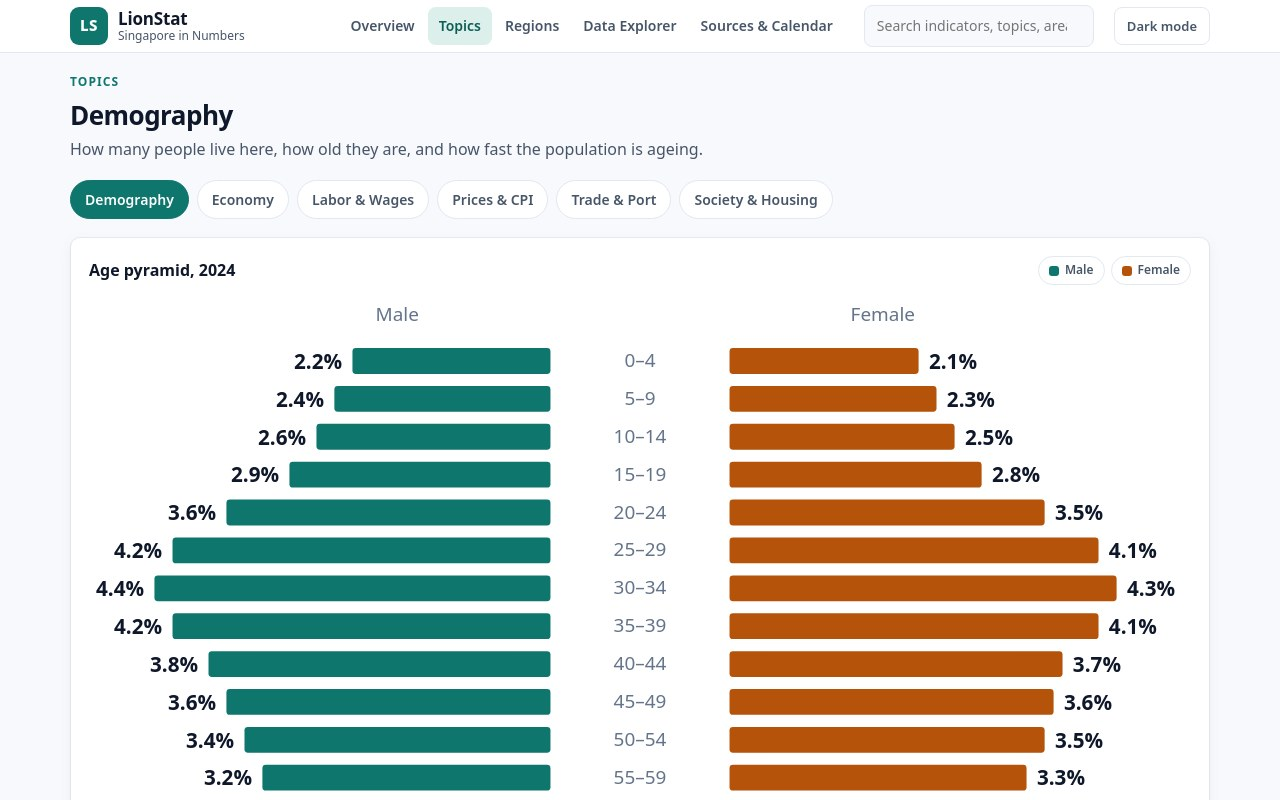
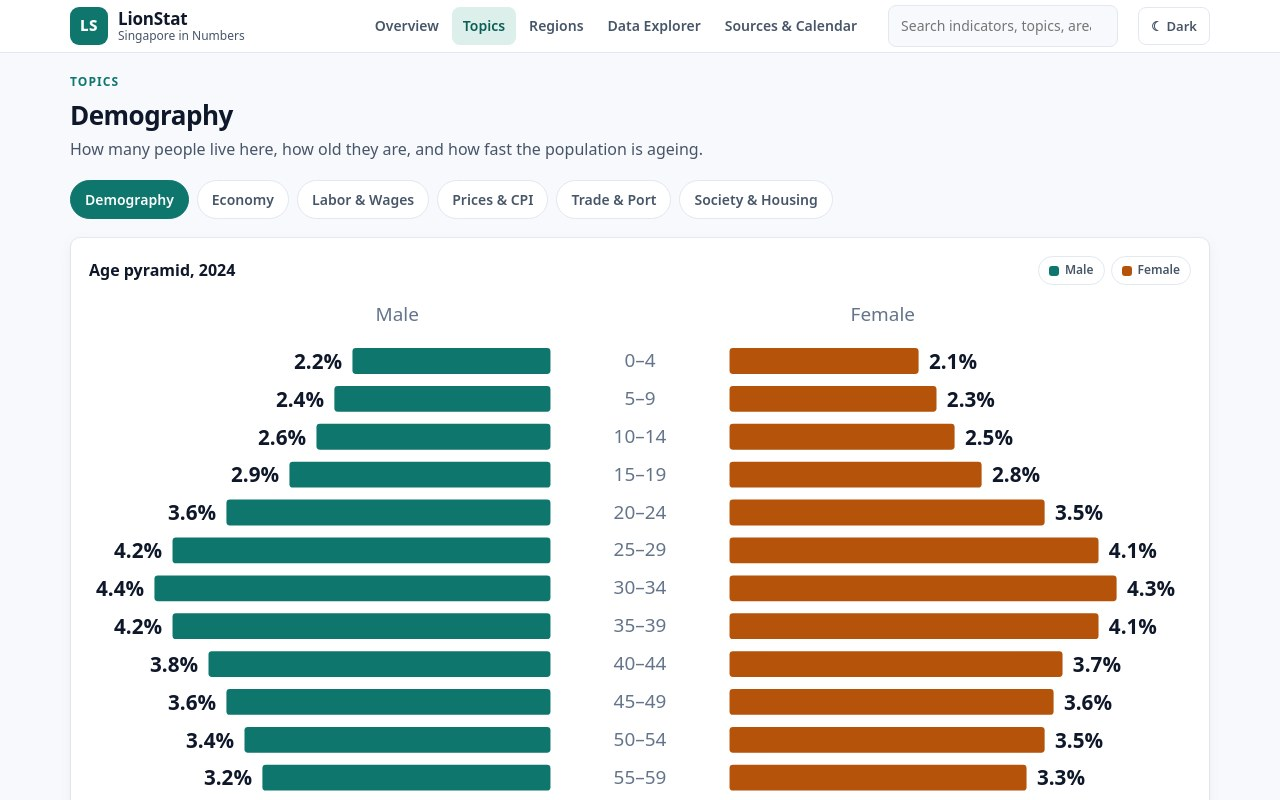
LionStat V3 — export buttons, compact mobile header, tighter choropleth
- Download CSV + Copy citation buttons on the Regions detail card
  (per-area CSV and citation) and beside the Data Explorer link under
  Featured trend (series CSV + chart citation, follows the switcher).
- Mobile header: compact theme toggle (moon Dark / sun Light) sits
  inline next to Menu on the top row; search drops to its own row.
- Tighter choropleth: tiles 84x58 (was 80x56), squarer corners, tile
  positions re-checked for zero overlaps (Sengkang/Serangoon nudged).
- Capture probes now click the new buttons and assert 0 errors.

Changed region(s): [[0.2812, 0.0, 0.6562, 0.0625], [0.6875, 0.0312, 0.8438, 0.0625], [0.875, 0.0312, 0.9375, 0.0625]]

diff --git a/app/data/regions.js b/app/data/regions.js
@@ -26,14 +26,14 @@ export const REGIONS = [
 
 const RAW_AREAS = [
   // Central Region — 12 areas
-  { id: 'bukit-merah', name: 'Bukit Merah', region: 'central', population: 155000, areaKm2: 14.3, medianAge: 44.6, youthPct: 11.0, seniorPct: 19.1, hdbSharePct: 77, mrtStations: 3, x: 505, y: 482, topFeatures: ['Alexandra retail corridor', 'Southern waterfront'] },
+  { id: 'bukit-merah', name: 'Bukit Merah', region: 'central', population: 155000, areaKm2: 14.3, medianAge: 44.6, youthPct: 11.0, seniorPct: 19.1, hdbSharePct: 77, mrtStations: 3, x: 505, y: 483, topFeatures: ['Alexandra retail corridor', 'Southern waterfront'] },
   { id: 'toa-payoh', name: 'Toa Payoh', region: 'central', population: 126000, areaKm2: 8.2, medianAge: 46.0, youthPct: 10.2, seniorPct: 21.5, hdbSharePct: 81, mrtStations: 2, x: 500, y: 425, topFeatures: ['Singapore’s first satellite town', 'HDB Hub'] },
   { id: 'queenstown', name: 'Queenstown', region: 'central', population: 100000, areaKm2: 6.9, medianAge: 44.8, youthPct: 10.8, seniorPct: 19.6, hdbSharePct: 78, mrtStations: 2, x: 350, y: 425, topFeatures: ['Singapore’s first HDB town', 'Stirling Road heritage flats'] },
   { id: 'bishan', name: 'Bishan', region: 'central', population: 88000, areaKm2: 7.8, medianAge: 44.2, youthPct: 11.2, seniorPct: 18.4, hdbSharePct: 76, mrtStations: 2, x: 430, y: 360, topFeatures: ['Bishan–Ang Mo Kio Park', 'Junction 8 interchange'] },
   { id: 'geylang', name: 'Geylang', region: 'central', population: 111000, areaKm2: 7.8, medianAge: 43.9, youthPct: 10.9, seniorPct: 17.8, hdbSharePct: 68, mrtStations: 3, x: 720, y: 355, topFeatures: ['Geylang Serai market', 'Old Airport Road food centre'] },
   { id: 'kallang', name: 'Kallang', region: 'central', population: 96000, areaKm2: 9.3, medianAge: 43.2, youthPct: 11.3, seniorPct: 17.2, hdbSharePct: 72, mrtStations: 2, x: 635, y: 360, topFeatures: ['National Stadium', 'Kallang Riverside'] },
   { id: 'novena', name: 'Novena', region: 'central', population: 49000, areaKm2: 8.0, medianAge: 42.5, youthPct: 11.6, seniorPct: 16.8, hdbSharePct: 38, mrtStations: 1, x: 515, y: 365, topFeatures: ['Tan Tock Seng Hospital', 'Novena medical hub'] },
-  { id: 'tanglin', name: 'Tanglin', region: 'central', population: 19000, areaKm2: 7.6, medianAge: 42.0, youthPct: 12.0, seniorPct: 15.5, hdbSharePct: 12, mrtStations: 1, x: 410, y: 482, topFeatures: ['Botanic Gardens', 'Embassy quarter'] },
+  { id: 'tanglin', name: 'Tanglin', region: 'central', population: 19000, areaKm2: 7.6, medianAge: 42.0, youthPct: 12.0, seniorPct: 15.5, hdbSharePct: 12, mrtStations: 1, x: 410, y: 484, topFeatures: ['Botanic Gardens', 'Embassy quarter'] },
   { id: 'outram', name: 'Outram', region: 'central', population: 17000, areaKm2: 1.4, medianAge: 44.0, youthPct: 10.8, seniorPct: 18.9, hdbSharePct: 55, mrtStations: 1, x: 595, y: 482, topFeatures: ['Singapore General Hospital', 'Chinatown edge'] },
   { id: 'downtown-core', name: 'Downtown Core', region: 'central', population: 4000, areaKm2: 4.3, medianAge: 41.5, youthPct: 9.5, seniorPct: 16.2, hdbSharePct: 8, mrtStations: 6, x: 680, y: 475, topFeatures: ['Marina Bay financial district', 'Raffles Place'] },
   { id: 'ang-mo-kio', name: 'Ang Mo Kio', region: 'central', population: 157000, areaKm2: 13.7, medianAge: 45.2, youthPct: 10.5, seniorPct: 20.3, hdbSharePct: 80, mrtStations: 2, x: 470, y: 300, topFeatures: ['AMK Hub', 'Mayflower neighbourhoods'] },
@@ -47,10 +47,10 @@ const RAW_AREAS = [
   { id: 'yishun', name: 'Yishun', region: 'north', population: 233000, areaKm2: 21.2, medianAge: 41.0, youthPct: 13.0, seniorPct: 15.1, hdbSharePct: 89, mrtStations: 2, x: 520, y: 168, topFeatures: ['Northpoint City', 'Yishun Pond'] },
   { id: 'sembawang', name: 'Sembawang', region: 'north', population: 108000, areaKm2: 12.9, medianAge: 41.5, youthPct: 13.4, seniorPct: 14.0, hdbSharePct: 86, mrtStations: 2, x: 430, y: 170, topFeatures: ['Sembawang Park', 'Naval Base heritage'] },
   // North-East Region — 4 areas
-  { id: 'sengkang', name: 'Sengkang', region: 'north-east', population: 270000, areaKm2: 10.6, medianAge: 36.9, youthPct: 16.9, seniorPct: 8.0, hdbSharePct: 90, mrtStations: 3, x: 590, y: 245, topFeatures: ['Sengkang Riverside Park', 'Compass One'] },
+  { id: 'sengkang', name: 'Sengkang', region: 'north-east', population: 270000, areaKm2: 10.6, medianAge: 36.9, youthPct: 16.9, seniorPct: 8.0, hdbSharePct: 90, mrtStations: 3, x: 590, y: 240, topFeatures: ['Sengkang Riverside Park', 'Compass One'] },
   { id: 'punggol', name: 'Punggol', region: 'north-east', population: 220000, areaKm2: 9.4, medianAge: 35.8, youthPct: 17.8, seniorPct: 7.2, hdbSharePct: 88, mrtStations: 3, x: 640, y: 178, topFeatures: ['Punggol Digital District', 'Waterway Point'] },
   { id: 'hougang', name: 'Hougang', region: 'north-east', population: 229000, areaKm2: 13.0, medianAge: 42.6, youthPct: 12.1, seniorPct: 16.5, hdbSharePct: 90, mrtStations: 2, x: 680, y: 250, topFeatures: ['Hougang Mall', 'Defu Industrial Park'] },
-  { id: 'serangoon', name: 'Serangoon', region: 'north-east', population: 119000, areaKm2: 10.1, medianAge: 42.8, youthPct: 12.4, seniorPct: 15.9, hdbSharePct: 82, mrtStations: 2, x: 580, y: 305, topFeatures: ['NEX interchange', 'Serangoon Garden estate'] },
+  { id: 'serangoon', name: 'Serangoon', region: 'north-east', population: 119000, areaKm2: 10.1, medianAge: 42.8, youthPct: 12.4, seniorPct: 15.9, hdbSharePct: 82, mrtStations: 2, x: 575, y: 298, topFeatures: ['NEX interchange', 'Serangoon Garden estate'] },
   // West Region — 6 areas
   { id: 'jurong-west', name: 'Jurong West', region: 'west', population: 266000, areaKm2: 14.2, medianAge: 40.2, youthPct: 13.2, seniorPct: 14.8, hdbSharePct: 88, mrtStations: 4, x: 140, y: 370, topFeatures: ['Jurong Lake District', 'NTU edge'] },
   { id: 'choa-chu-kang', name: 'Choa Chu Kang', region: 'west', population: 177000, areaKm2: 6.1, medianAge: 41.8, youthPct: 12.8, seniorPct: 14.9, hdbSharePct: 93, mrtStations: 2, x: 200, y: 245, topFeatures: ['Lot One Shoppers’ Mall', 'CCK Park'] },

diff --git a/app/views/home.js b/app/views/home.js
@@ -91,7 +91,7 @@ export function render() {
     <div class="cc-right">
       <section class="kpi-grid kpi-grid-compact" aria-label="Headline indicators">${kpis}</section>
       <section class="panel featured-panel" aria-label="Featured chart">
-        <div class="cc-panel-head"><h2>Featured trend</h2><a href="#/explorer">Data Explorer →</a></div>
+        <div class="cc-panel-head"><h2>Featured trend</h2><div class="cc-head-actions"><button type="button" class="btn-mini" id="dl-featured-csv">Download CSV</button><button type="button" class="btn-mini" id="copy-featured-cite">Copy citation</button><a href="#/explorer">Data Explorer →</a></div></div>
         <div class="switcher" role="tablist" aria-label="Featured chart">
           ${FEATURED.map((f, i) => `<button type="button" role="tab" class="switcher-btn${i === 0 ? ' active' : ''}" data-chart="${f.id}" aria-selected="${i === 0}">${f.label}</button>`).join('')}
         </div>
@@ -156,24 +156,29 @@ export function mount() {
   // Featured chart switcher.
   const featured = document.getElementById('featured-chart');
   const extra = document.getElementById('featured-extra');
+  let currentFeatured = null;
   const draw = (id) => {
     extra.innerHTML = '';
     if (id === 'gdp') {
+      currentFeatured = { label: 'GDP Growth', caption: 'S$719.4B in 2024, up 6.8%; real growth +4.4% [2].', indicators: ['nominal-gdp'] };
       renderLineChart(featured, [
         { label: 'Nominal GDP (S$B)', color: '#0F766E', values: indicatorById('nominal-gdp').series },
       ], { title: '', unit: 'S$B', compact: true, caption: 'S$719.4B in 2024, up 6.8%; real growth +4.4% [2].' });
     } else if (id === 'population') {
+      currentFeatured = { label: 'Population', caption: 'Total 6.04M; residents 4.18M at June 2024 [1].', indicators: ['total-population', 'resident-population'] };
       renderLineChart(featured, [
         { label: 'Total population (M)', color: '#0F766E', values: indicatorById('total-population').series },
         { label: 'Resident population (M)', color: '#B45309', values: indicatorById('resident-population').series },
       ], { title: '', unit: 'M', compact: true, caption: 'Total 6.04M; residents 4.18M at June 2024 [1].' });
       renderPyramidChart(extra, PYRAMID_2024, { title: 'Age structure, 2024 — share of total population', caption: 'Working-age residents (15–64) are 72.3% of the population; seniors 65+ are 13.6% [1].' });
     } else if (id === 'inflation') {
+      currentFeatured = { label: 'Core vs Headline CPI', caption: 'Headline +2.4%, core +2.7% in 2024 [4] [5].', indicators: ['cpi-headline', 'cpi-core'] };
       renderLineChart(featured, [
         { label: 'Headline CPI (% YoY)', color: '#BE123C', values: indicatorById('cpi-headline').series },
         { label: 'MAS core inflation (% YoY)', color: '#0F766E', values: indicatorById('cpi-core').series },
       ], { title: '', unit: '% YoY', compact: true, caption: 'Headline +2.4%, core +2.7% in 2024 [4] [5].' });
     } else {
+      currentFeatured = { label: 'Port TEUs', caption: 'Record 41.1M TEUs [7]; Changi 67.7M passengers [8].', indicators: ['container-throughput', 'changi-passengers'] };
       renderLineChart(featured, [
         { label: 'Container throughput (M TEUs)', color: '#0F766E', values: indicatorById('container-throughput').series },
         { label: 'Changi passengers (M)', color: '#B45309', values: indicatorById('changi-passengers').series },
@@ -191,5 +196,48 @@ export function mount() {
       btn.setAttribute('aria-selected', 'true');
       draw(btn.dataset.chart);
     });
+  });
+
+  // Export the featured chart: CSV of its series, and a copyable citation.
+  const flash = (btn, text) => {
+    const old = btn.textContent;
+    btn.textContent = text;
+    setTimeout(() => { btn.textContent = old; }, 1500);
+  };
+  const download = (filename, text, type) => {
+    const blob = new Blob([text], { type });
+    const url = URL.createObjectURL(blob);
+    const a = document.createElement('a');
+    a.href = url;
+    a.download = filename;
+    document.body.appendChild(a);
+    a.click();
+    a.remove();
+    setTimeout(() => URL.revokeObjectURL(url), 1000);
+  };
+  const csvCell = (v) => {
+    const s = String(v);
+    return /[",\n]/.test(s) ? `"${s.replace(/"/g, '""')}"` : s;
+  };
+  document.getElementById('dl-featured-csv').addEventListener('click', (ev) => {
+    const lines = [['indicator', 'year', 'value', 'unit', 'source_id'].join(',')];
+    for (const id of currentFeatured.indicators) {
+      const ind = indicatorById(id);
+      for (const p of ind.series) {
+        lines.push([ind.title, p.year, p.value, ind.unit, ind.sourceId].map(csvCell).join(','));
+      }
+    }
+    download(`lionstat-${currentFeatured.label.toLowerCase().replace(/[^a-z0-9]+/g, '-')}-2010-2024.csv`, lines.join('\r\n'), 'text/csv');
+    flash(ev.currentTarget, 'Saved ✓');
+  });
+  document.getElementById('copy-featured-cite').addEventListener('click', async (ev) => {
+    const btn = ev.currentTarget;
+    const text = `LionStat — Singapore in Numbers: ${currentFeatured.label} — ${currentFeatured.caption}`;
+    try {
+      await navigator.clipboard.writeText(text);
+      flash(btn, 'Copied ✓');
+    } catch {
+      btn.textContent = text;
+    }
   });
 }

diff --git a/app/views/regions.js b/app/views/regions.js
@@ -89,7 +89,67 @@ function detailHtml(area) {
       <div><dt>MRT stations</dt><dd>${area.mrtStations}</dd></div>
     </dl>
     <p class="panel-note">Known for: ${area.topFeatures.join(' · ')}.</p>
-    <p class="panel-note">Sources: population and age structure [1]; boundaries and areas [14].</p>`;
+    <p class="panel-note">Sources: population and age structure [1]; boundaries and areas [14].</p>
+    <div class="detail-actions">
+      <button type="button" class="btn btn-mini" data-dl-csv>Download CSV</button>
+      <button type="button" class="btn btn-ghost btn-mini" data-copy-cite>Copy citation</button>
+    </div>
+    <span class="copy-note" data-copy-note aria-live="polite"></span>`;
+}
+
+function areaCsv(area) {
+  const csvCell = (v) => {
+    const s = String(v);
+    return /[",\n]/.test(s) ? `"${s.replace(/"/g, '""')}"` : s;
+  };
+  const rows = [
+    ['planning_area', 'region', 'population', 'area_km2', 'density_per_km2', 'median_age', 'youth_pct_0_14', 'senior_pct_65_plus', 'hdb_share_pct', 'mrt_stations'],
+    [area.name, area.region, area.population, area.areaKm2, area.densityPerKm2, area.medianAge, area.youthPct, area.seniorPct, area.hdbSharePct, area.mrtStations],
+  ];
+  return rows.map((r) => r.map(csvCell).join(',')).join('\r\n');
+}
+
+function areaCitation(area) {
+  return `LionStat — Singapore in Numbers: ${area.name} (${regionById(area.region).name}), 2024: population ${area.population.toLocaleString('en-SG')}, density ${area.densityPerKm2.toLocaleString('en-SG')}/km², median age ${area.medianAge.toFixed(1)} years, HDB share ${area.hdbSharePct}%. Sources [1] population and age structure; [14] boundaries and areas.`;
+}
+
+function downloadFile(filename, text, type) {
+  const blob = new Blob([text], { type });
+  const url = URL.createObjectURL(blob);
+  const a = document.createElement('a');
+  a.href = url;
+  a.download = filename;
+  document.body.appendChild(a);
+  a.click();
+  a.remove();
+  setTimeout(() => URL.revokeObjectURL(url), 1000);
+}
+
+function wireDetailActions(area) {
+  const csvBtn = document.querySelector('[data-dl-csv]');
+  const citeBtn = document.querySelector('[data-copy-cite]');
+  const note = document.querySelector('[data-copy-note]');
+  if (!csvBtn || !citeBtn) return;
+  csvBtn.addEventListener('click', (ev) => {
+    const btn = ev.currentTarget;
+    downloadFile(`lionstat-${area.id}-2024.csv`, areaCsv(area), 'text/csv');
+    const old = btn.textContent;
+    btn.textContent = 'Saved ✓';
+    setTimeout(() => { btn.textContent = old; }, 1500);
+  });
+  citeBtn.addEventListener('click', async (ev) => {
+    const btn = ev.currentTarget;
+    const text = areaCitation(area);
+    try {
+      await navigator.clipboard.writeText(text);
+      note.textContent = 'Citation copied.';
+      const old = btn.textContent;
+      btn.textContent = 'Copied ✓';
+      setTimeout(() => { btn.textContent = old; note.textContent = ''; }, 2500);
+    } catch {
+      note.textContent = text;
+    }
+  });
 }
 
 export function mount() {
@@ -103,15 +163,18 @@ export function mount() {
     renderRegionMap(mapHost, AREAS, REGIONS, selectedId, metric, (id) => {
       selectedId = id;
       detailHost.innerHTML = detailHtml(areaById(id));
+      wireDetailActions(areaById(id));
       drawMap();
     });
   };
   const selectArea = (id) => {
     selectedId = id;
     detailHost.innerHTML = detailHtml(areaById(id));
+    wireDetailActions(areaById(id));
     drawMap();
   };
   detailHost.innerHTML = detailHtml(areaById(selectedId));
+  wireDetailActions(areaById(selectedId));
   drawMap();
   document.querySelectorAll('.metric-btn').forEach((btn) => {
     btn.addEventListener('click', () => {

diff --git a/app/charts.js b/app/charts.js
@@ -209,8 +209,8 @@ export function renderPyramidChart(container, bands, options = {}) {
 // (mainland plus Sentosa, Jurong Island, Pulau Ubin and Pulau Tekong).
 // metric: 'population' | 'density' | 'medianAge' | 'hdbShare'.
 export function renderRegionMap(container, areas, regions, selectedId, metric, onSelect) {
-  const TILE_W = 80;
-  const TILE_H = 56;
+  const TILE_W = 84;
+  const TILE_H = 58;
   const metricOf = (a) =>
     metric === 'population' ? a.population
     : metric === 'density' ? a.densityPerKm2
@@ -271,12 +271,12 @@ export function renderRegionMap(container, areas, regions, selectedId, metric, o
     const lines = nameLines(a.name);
     const two = lines.length === 2;
     const nameText = lines
-      .map((ln, i) => `<text x="${a.x}" y="${y + (two ? 19 + i * 13 : 24)}" class="map-tile-name" fill="${textOn(t)}">${esc(ln)}</text>`)
+      .map((ln, i) => `<text x="${a.x}" y="${y + (two ? 20 + i * 13 : 25)}" class="map-tile-name" fill="${textOn(t)}">${esc(ln)}</text>`)
       .join('');
     tiles += `<g class="map-tile${sel ? ' selected' : ''}" data-area="${esc(a.id)}" tabindex="0" role="button" aria-label="${esc(a.name)}: ${esc(metricLabel)} ${esc(valText(a))}">
-      <rect x="${x}" y="${y}" width="${TILE_W}" height="${TILE_H}" rx="8" fill="${ramp(t)}" stroke="${sel ? '#0F172A' : '#FFFFFF'}" stroke-width="${sel ? 3 : 1.5}"/>
+      <rect x="${x}" y="${y}" width="${TILE_W}" height="${TILE_H}" rx="6" fill="${ramp(t)}" stroke="${sel ? '#0F172A' : '#FFFFFF'}" stroke-width="${sel ? 3 : 1.5}"/>
       ${nameText}
-      <text x="${a.x}" y="${y + (two ? 47 : 42)}" class="map-tile-value" fill="${textOn(t)}">${esc(valText(a))}</text>
+      <text x="${a.x}" y="${y + (two ? 49 : 45)}" class="map-tile-value" fill="${textOn(t)}">${esc(valText(a))}</text>
     </g>`;
   });
   const regionChips = regions

diff --git a/app/style.css b/app/style.css
@@ -387,6 +387,11 @@ button.legend-item:hover { border-color: var(--jade); }
 .cc-panel-head { display: flex; justify-content: space-between; align-items: baseline; gap: 10px; margin-bottom: 4px; }
 .cc-panel-head h2 { font-size: 17px; letter-spacing: -0.01em; }
 .cc-panel-head a { font-size: 13.5px; font-weight: 600; white-space: nowrap; }
+.cc-head-actions { display: flex; align-items: center; gap: 8px; flex: none; }
+.btn-mini { border: 1px solid var(--border); background: var(--surface); color: var(--jade-dark); border-radius: 7px; padding: 5px 9px; font-size: 12.5px; font-weight: 700; white-space: nowrap; line-height: 1.3; }
+.btn-mini:hover { border-color: var(--jade); color: var(--ink); }
+.detail-actions { display: flex; gap: 8px; flex-wrap: wrap; margin-top: 12px; }
+.copy-note { display: block; font-size: 12.5px; color: var(--muted); margin-top: 6px; min-height: 0; }
 .cc-selected { margin-top: 6px; border-top: 1px solid var(--border); padding-top: 6px; font-size: 13px; color: var(--muted); white-space: nowrap; overflow: hidden; text-overflow: ellipsis; }
 .cc-selected strong { color: var(--ink); }
 .release-list.compact { font-size: 14px; }
@@ -489,7 +494,7 @@ html[data-theme="dark"] .landmass { fill: #12312d; stroke: #2dd4bf; }
   .hero h1 { font-size: 32px; }
   .masthead h1 { font-size: 28px; }
   .kpi-grid-compact { grid-template-columns: repeat(2, minmax(0, 1fr)); }
-  .theme-btn { order: 5; margin-left: auto; }
+  .theme-btn { order: 0; margin-left: 0; padding: 8px 10px; font-size: 12px; }
   .hero-blurb { font-size: 16px; }
   .kpi-grid, .topic-grid { grid-template-columns: 1fr; }
   .kpi-value { font-size: 30px; }

diff --git a/app/main.js b/app/main.js
@@ -122,7 +122,7 @@ const applyTheme = (t) => {
   document.documentElement.dataset.theme = t;
   try { localStorage.setItem('lionstat-theme', t); } catch (e) {}
   themeBtn.setAttribute('aria-pressed', String(t === 'dark'));
-  themeBtn.textContent = t === 'dark' ? 'Light mode' : 'Dark mode';
+  themeBtn.textContent = t === 'dark' ? '☀ Light' : '☾ Dark';
 };
 applyTheme(document.documentElement.dataset.theme === 'dark' ? 'dark' : 'light');
 themeBtn.addEventListener('click', () => {
